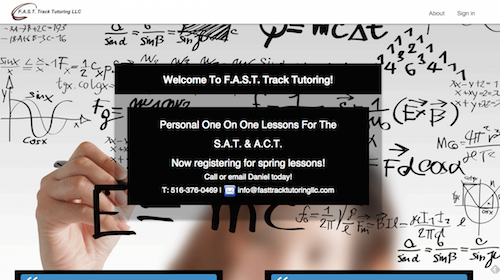
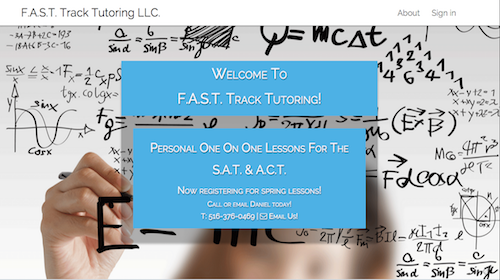
CSS to welcome

diff --git a/css/galleries.css b/css/galleries.css
@@ -1,0 +1,193 @@
+
+#gallery li, #gallery2 li, #gallery3 li {
+display: inline;
+margin-right: 0px;
+padding-left: 16px;
+}
+
+#gallery, #gallery2, #gallery3, #main-img, #main-img2, #main-img3 {
+background: url(images/bg_img.png) no-repeat 0 0;
+width: 792px;
+height: 593px;
+}
+
+/* First Gallery */
+ul.slides{
+  overflow:hidden;
+  clear:both;
+  border-radius: 6px;
+}
+
+ul.slides,
+ul.slides li,
+ul.slides a,
+ul.slides img{
+  width: 792px;
+  height: 523px;
+  position:relative;
+}
+
+ul.slides li{
+  position:absolute;
+  z-index:50;
+}
+
+ul.thumbs {
+  display: inline-block;
+  margin: 20px 0;
+}
+
+ul.thumbs li{
+  float:left;
+  margin: 0 20px 10px 0;
+}
+
+ul.thumbs li{
+  display:block;
+  position:relative;
+  width:85px;
+  height:55px;
+  border:4px solid transparent;
+  font:bold 12px/25px Arial, sans-sarif;
+  color:#515151;
+  text-decoration:none;
+  text-shadow:1px 1px 0px rgba(255,255,255,.25), inset 1px 1px 0px rgba(0,0,0,.15);
+}
+
+ul.thumbs img{
+  border:#333 solid 1px;
+}
+
+ul.thumbs span{
+  position:absolute;
+  z-index: -1;
+  bottom: 0px;
+  left: 16px;
+}
+
+ul.thumbs li:hover span{
+  position:absolute;
+  z-index:101;
+  bottom: -30px;
+  left: 17px;
+  display:block;
+  width:100px;
+  height:25px;
+  text-align:center;
+  border-radius:3px;
+  
+  -webkit-box-shadow:0px 1px 0px rgba(0,0,0,.4);
+  -moz-box-shadow:0px 1px 0px rgba(0,0,0,.4);
+  box-shadow:0px 1px 0px rgba(0,0,0,.4);
+  
+  background:#fff; /* Older Browsers */
+  background:-moz-linear-gradient(top, #fff 0%, #bcbcbc 100%);
+  background:-webkit-linear-gradient(top, #fff 0%, #bcbcbc 100%);
+  background:-o-linear-gradient(top, #fff 0%, #bcbcbc 100%);
+  background:-ms-linear-gradient(top, #fff 0%, #bcbcbc 100%);
+  background:linear-gradient(top, #fff 0%, #bcbcbc 100%);
+}
+
+ul.thumbs li:hover span:before{
+  width:0;
+  height:0;
+  border-bottom:5px solid #fff;
+  border-left:5px solid transparent;
+  border-right:5px solid transparent;
+  content:'';
+  position:absolute;
+  top:-5px;
+  left:44px;
+}
+
+
+/* End First Gallery */
+
+/* Second Gallery */
+ul.slides2{
+  overflow:hidden;
+  clear:both;
+  border-radius: 6px;
+}
+
+ul.slides2,
+ul.slides2 li,
+ul.slides2 a,
+ul.slides2 img{
+  width: 792px;
+  height: 523px;
+  position:relative;
+}
+
+ul.slides2 li{
+  position:absolute;
+  z-index:50;
+}
+
+ul.thumbs2 {
+  display: inline-block;
+  margin: 20px 0;
+}
+
+ul.thumbs2 li{
+  float:left;
+  margin: 0 20px 10px 0;
+}
+
+ul.thumbs2 a{
+  display:block;
+  position:relative;
+  width:85px;
+  height:55px;
+  border:4px solid transparent;
+  font:bold 12px/25px Arial, sans-sarif;
+  color:#515151;
+  text-decoration:none;
+  text-shadow:1px 1px 0px rgba(255,255,255,.25), inset 1px 1px 0px rgba(0,0,0,.15);
+}
+
+ul.thumbs2 img{
+  border:#333 solid 1px;
+}
+
+ul.thumbs2 span{
+  position:absolute;
+  z-index: -1;
+  bottom: 0px;
+  left: 0px;
+}
+
+ul.thumbs2 li a:hover span{
+  position:absolute;
+  z-index:101;
+  bottom: -30px;
+  left: 2px;
+  display:block;
+  width:100px;
+  height:25px;
+  text-align:center;
+  border-radius:3px;
+  
+  -webkit-box-shadow:0px 1px 0px rgba(0,0,0,.4);
+  -moz-box-shadow:0px 1px 0px rgba(0,0,0,.4);
+  box-shadow:0px 1px 0px rgba(0,0,0,.4);
+  
+  background:#fff; /* Older Browsers */
+  background:-moz-linear-gradient(top, #fff 0%, #bcbcbc 100%);
+  background:-webkit-linear-gradient(top, #fff 0%, #bcbcbc 100%);
+  background:-o-linear-gradient(top, #fff 0%, #bcbcbc 100%);
+  background:-ms-linear-gradient(top, #fff 0%, #bcbcbc 100%);
+  background:linear-gradient(top, #fff 0%, #bcbcbc 100%);
+}
+
+ul.thumbs2 li a:hover span:before{
+  width:0;
+  height:0;
+  border-bottom:5px solid #fff;
+  border-left:5px solid transparent;
+  border-right:5px solid transparent;
+  content:'';
+  position:absolute;
+  top:-5px;
+  left:44px;
+}

diff --git a/css/style.css b/css/style.css
@@ -151,6 +151,35 @@ span.logo3 {
   display: block;
 }
 
+.transp {
+  background: 0;
+  border: 2px solid #fff;
+  line-height: 46px;
+  padding: 0 20px;
+}
+
+.welcome-button {
+  position: relative;
+  display: inline-block;
+  padding: 0 25px;
+  color: #fff!important;
+  font: 700 'Source Sans Pro',Arial,Helvetica,Tahoma,sans-serif;
+  border-radius: 3px;
+  text-align: center;
+  text-transform: uppercase;
+  overflow: hidden;
+  transition: all .15s linear;
+  -moz-transition: all .15s linear;
+  -webkit-transition: all .15s linear;
+  height: 50px;
+  font-size: 18px;
+  margin-right: 20px;
+}
+
+a.welcome-button:hover {
+  background: rgba(0, 0, 0, 0.5)
+}
+
 ul.welcome-list {
   list-style: none;
   margin: 0px;
@@ -170,11 +199,22 @@ ul.welcome-list p {
 
 .welcome-text {
   margin: 13% 0px;
-  font-family: 'Raleway', sans-serif;
 }
 
 .welcome-text p {
-  font-size: 2rem;
+  /*font-size: 2rem;*/
+  margin: 25px 0 30px;
+  text-transform: uppercase;
+  letter-spacing: .03em;
+  z-index: 2;
+  color: #fff;
+  font: 400 28px Roboto;
+}
+
+.welcome-text h1 {
+  display: block;
+  font: 600 64px/64px 'Roboto Condensed';
+  text-transform: uppercase;
 }
 
 .welcome-right hr {

diff --git a/css/mobile.css b/css/mobile.css
@@ -20,13 +20,25 @@
     background-color: #085A78;
   }
 
+  .welcome-button {
+    font-size: 17px;
+    margin-right: 6px;
+    padding: 0 7px;
+  }
+
   .welcome-text {
     text-align: center;
     margin: 16% 0px;
   }
   
   .welcome-text p {
-    font-size: 1.7rem;
+    /*font-size: 2rem;*/
+    margin: 25px 0 30px;
+    text-transform: uppercase;
+    letter-spacing: .03em;
+    z-index: 2;
+    color: #fff;
+    font: 400 22px Roboto;
   }
 
   .project {
@@ -99,7 +111,7 @@
   }
   
   .welcome-text p {
-    font-size: 2.1rem;
+    /*font-size: 2.1rem;*/
   }
 
   p.welcome-title {
@@ -129,7 +141,7 @@
   }
 
   .welcome-text p {
-    font-size: 2.6rem;
+    /*font-size: 2.6rem;*/
   }
 
   p.welcome-title {
@@ -154,6 +166,17 @@
     margin: 3% 0;
   }
   
+  .welcome-text p{
+    margin: 13px 0 30px;
+    font: 400 20px Roboto;
+  }
+
+  .welcome-button {
+    padding: 0 20px;
+    font-size: 15px;
+    height: 45px;
+  }
+
   .hero h1 {
     font-size: 2.1rem;
   }
@@ -164,7 +187,7 @@
   }
 
   .welcome-text p {
-    font-size: 1.5rem;
+    /*font-size: 1.5rem;*/
   }
 
   p.welcome-title {

diff --git a/index.html b/index.html
@@ -50,6 +50,8 @@
             <div class="small-10 small-centered medium-10 medium-centered columns welcome-text">
               <h1>Hi There!</h1>
               <p>I'm a web developer from New York and I love to build websites and Rails apps. Let's work together!</p>
+              <a href="#projects" class="welcome-button transp">Projects</a>
+              <a href="#bottom" class="welcome-button transp">About Tony</a>
             </div>  
           </div>
         </div>   

diff --git a/js/custom.js b/js/custom.js
@@ -40,7 +40,7 @@ $(function() {
             var bottom_of_window = $(window).scrollTop() + $(window).height();
             
             /* Adjust the "50" to either have a delay or that the content starts fading a bit before you reach it  */
-            bottom_of_window = bottom_of_window + 20;  
+            bottom_of_window = bottom_of_window + 10;  
           
             if( bottom_of_window > bottom_of_object ){
                 
